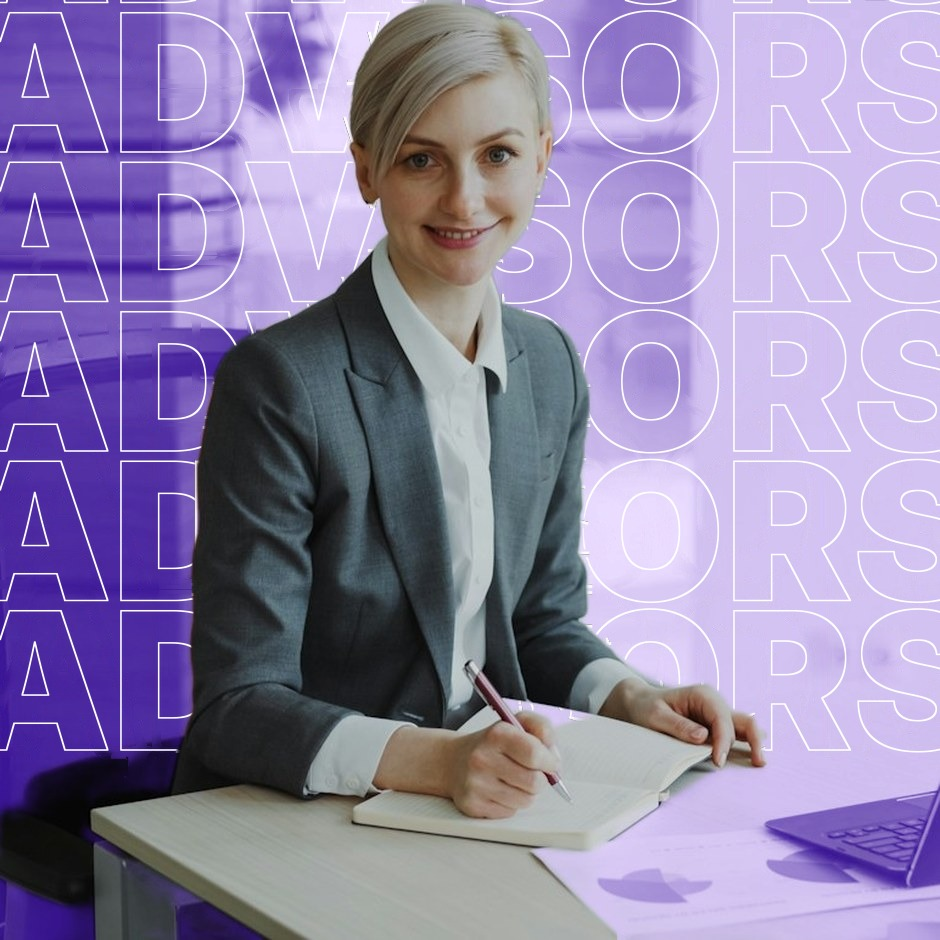
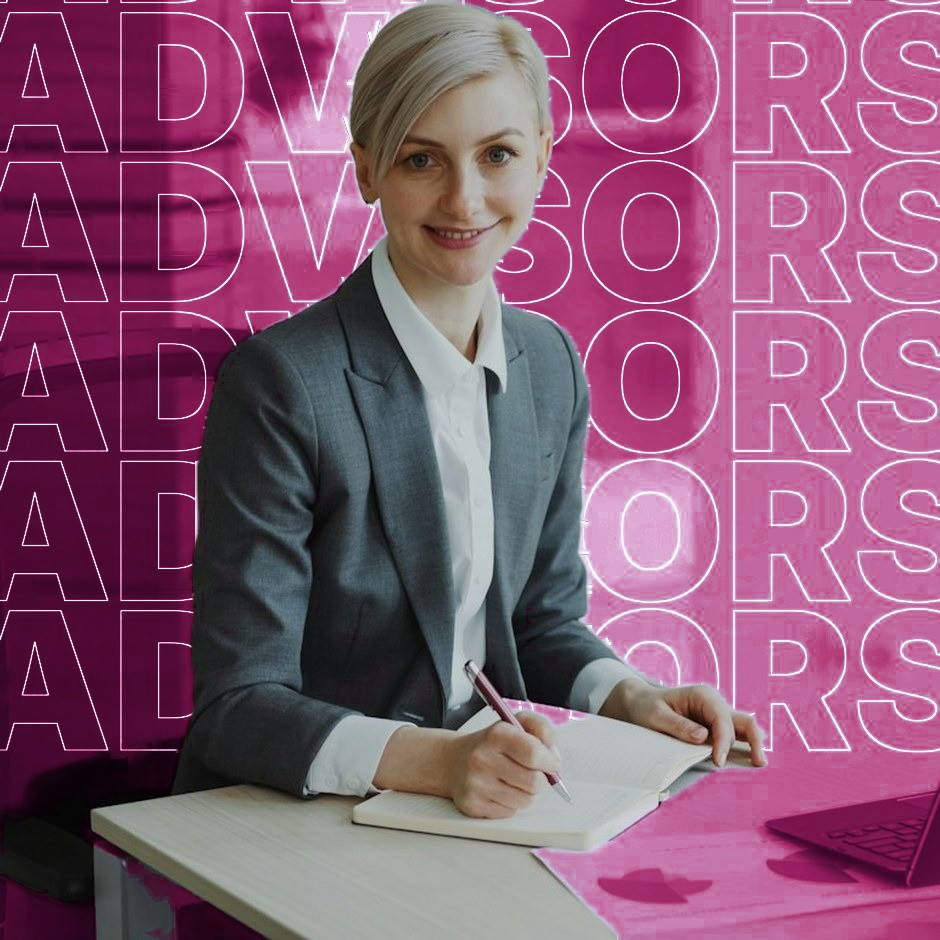
Wave Tax Landing Origami: dark pink advisor image overlay
Claude-Session: https://claude.ai/code/session_016rpguaGnGwA1zdzYfzRZj8

diff --git a/wave-tax-landing-origami/index.html b/wave-tax-landing-origami/index.html
@@ -443,7 +443,7 @@ html body nav.back:not(.sb-panel):not(:has(>div))>a,html body nav.back:not(.sb-p
         <p>Hand your books to a dedicated Wave bookkeeper. They catch you up, keep every transaction categorized and reconciled, and hand you clean, tax-ready reports before the CRA deadline.</p>
         <a class="btn" href="#">Meet your advisor</a>
       </div>
-      <img src="img/advisor-duo.jpg" alt="A smiling Wave advisor in a grey suit takes notes at her desk, in front of a purple background repeating the word ADVISORS in outline type">
+      <img src="img/advisor-duo.jpg" alt="A smiling Wave advisor in a grey suit takes notes at her desk, in front of a dark pink background repeating the word ADVISORS in outline type">
     </div>
   </div>
 </section>
